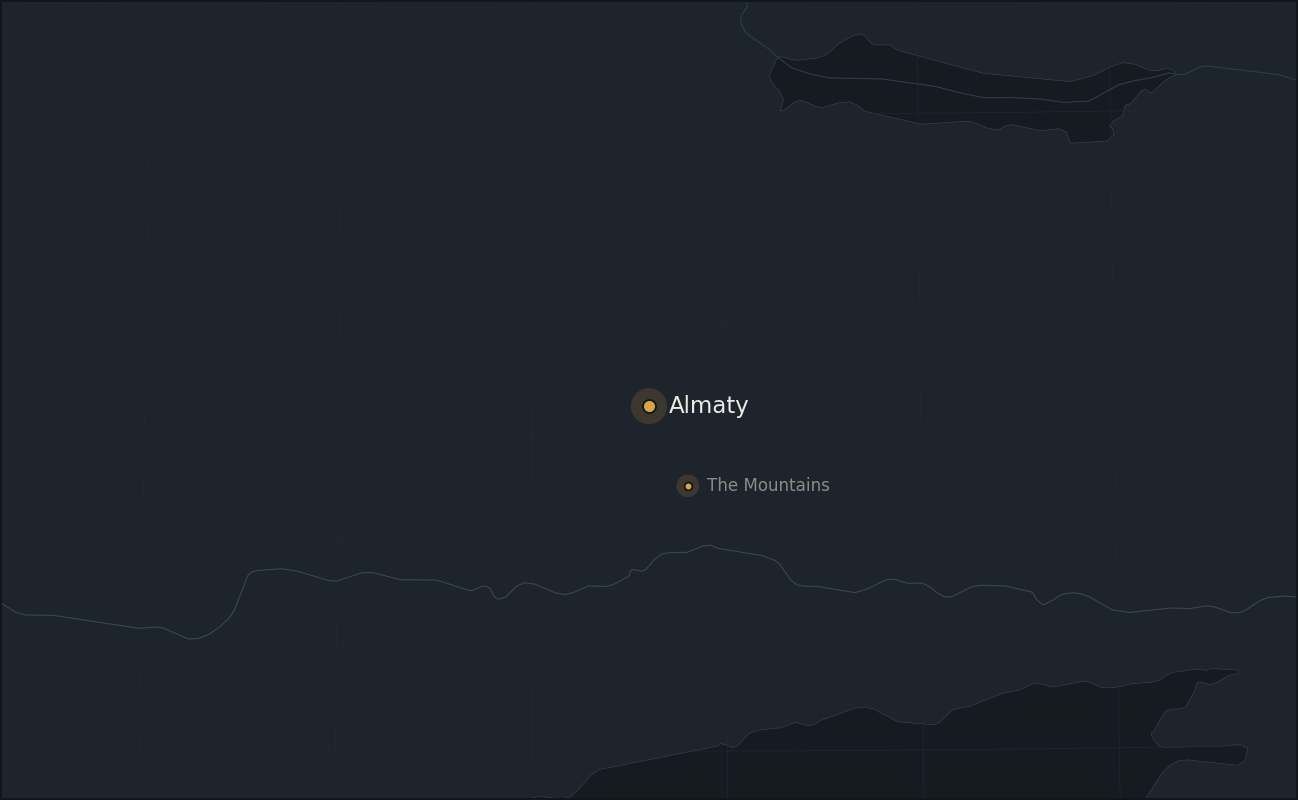
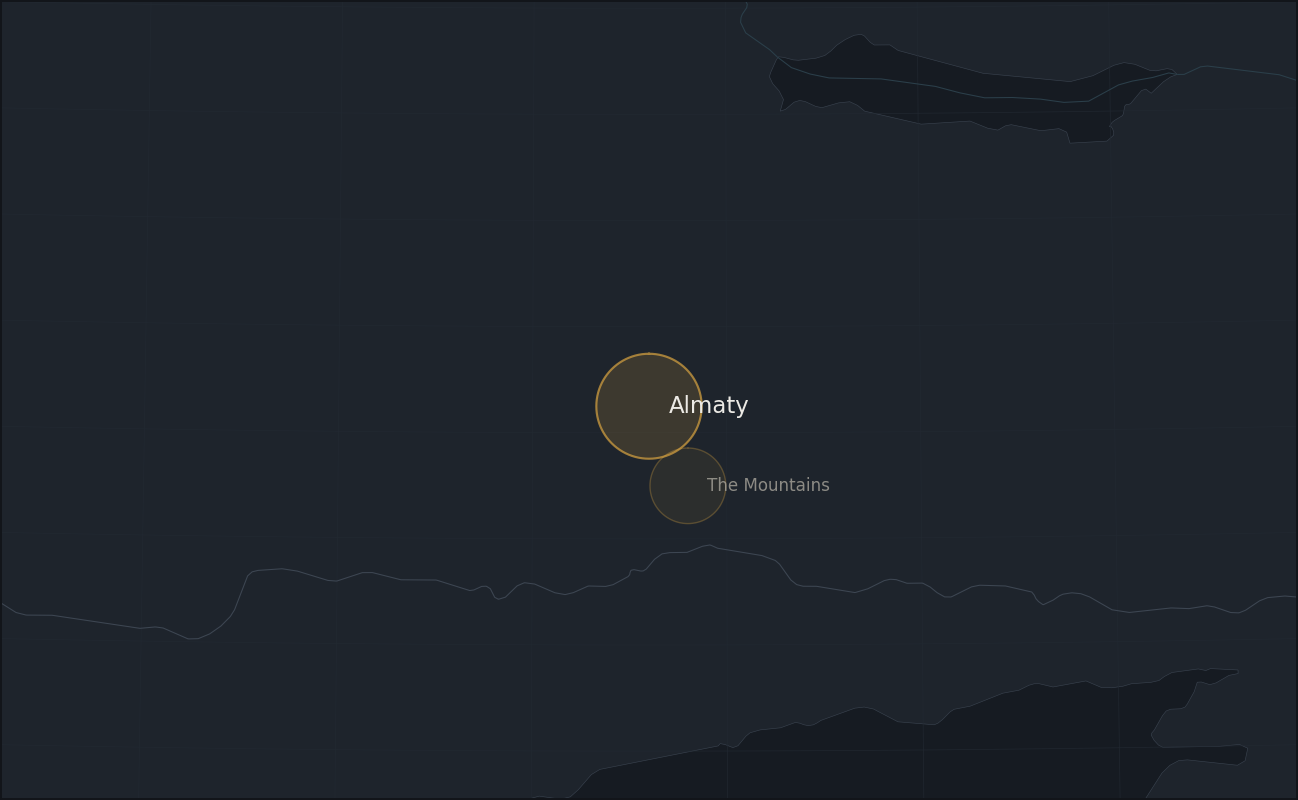
Circular regions on maps; remove em dashes from chapter prose
Maps now draw approximate circular regions instead of points. A point implies a
GPS fix on a family home; a soft circle says around here, which matches how the
coordinates were derived (median over a chapter's photos) and is the right
precision to publish. The circles are geodesic rather than screen-space discs,
so they carry the projection's distortion honestly.

The globe drew only the first chapter. It now shows all four, unlabeled, at a
radius where Astana/shapan and Almaty/mountains each merge into a single
region, which is the right reading for a map answering where on Earth.

Changed region(s): [[0.4314, 0.4375, 0.5547, 0.5938]]

diff --git a/tools/build_maps.py b/tools/build_maps.py
@@ -182,12 +182,51 @@ def place_labels(ax, ordered, xy):
     return out, (x1 - x0) * 0.015
 
 
-def draw_markers(ax, proj, coords, ordered, highlight, route=False):
+def geodesic_circle(lat, lon, radius_km, n=96):
+    """Points on a circle of true ground radius, in lon/lat.
+
+    Drawn on the sphere rather than as a screen-space disc, so the shape carries
+    the projection's distortion honestly: a circle looks circular in Albers near
+    the standard parallels and visibly elliptical toward the limb of the globe.
+    """
+    ang = radius_km / 6371.0
+    lat1, lon1 = math.radians(lat), math.radians(lon)
+    pts = []
+    for i in range(n + 1):
+        brg = 2 * math.pi * i / n
+        lat2 = math.asin(math.sin(lat1) * math.cos(ang)
+                         + math.cos(lat1) * math.sin(ang) * math.cos(brg))
+        lon2 = lon1 + math.atan2(
+            math.sin(brg) * math.sin(ang) * math.cos(lat1),
+            math.cos(ang) - math.sin(lat1) * math.sin(lat2),
+        )
+        pts.append((math.degrees(lon2), math.degrees(lat2)))
+    return pts
+
+
+def draw_regions(ax, proj, coords, ordered, highlight, radius_km, labels=True,
+                 route=False):
+    """Approximate circular regions rather than points.
+
+    A point implies a GPS fix on a family's home. A soft circle says "somewhere
+    around here", which is both truer to how these coordinates were derived
+    (a median over a chapter's photos) and the right amount of precision to
+    publish.
+    """
     xy = {}
     for g in ordered:
         lat, lon, _ = coords[g]
-        x, y = proj.transform_point(lon, lat, ccrs.PlateCarree())
-        xy[g] = (x, y)
+        xy[g] = proj.transform_point(lon, lat, ccrs.PlateCarree())
+
+    for g in ordered:
+        lat, lon, _ = coords[g]
+        active = highlight is None or g == highlight
+        ring = geodesic_circle(lat, lon, radius_km if active else radius_km * 0.72)
+        lons, lats = zip(*ring)
+        ax.fill(lons, lats, transform=ccrs.PlateCarree(), color=POINT,
+                alpha=0.17 if active else 0.08, zorder=5, linewidth=0)
+        ax.plot(lons, lats, transform=ccrs.PlateCarree(), color=POINT,
+                alpha=0.7 if active else 0.3, lw=1.4 if active else 0.9, zorder=6)
 
     if route and len(ordered) > 1:
         lons = [coords[g][1] for g in ordered]
@@ -195,22 +234,20 @@ def draw_markers(ax, proj, coords, ordered, highlight, route=False):
         # Geodetic transform draws great-circle arcs rather than straight lines
         # in projected space -- the honest path between two points on a sphere.
         ax.plot(lons, lats, transform=ccrs.Geodetic(), color=POINT,
-                lw=1.3, alpha=0.5, ls=(0, (5, 4)), zorder=5)
+                lw=1.3, alpha=0.45, ls=(0, (5, 4)), zorder=4)
+
+    if not labels:
+        return
 
     label_y, dx = place_labels(ax, ordered, xy)
 
     for g in ordered:
         x, y = xy[g]
         active = highlight is None or g == highlight
-        ax.scatter([x], [y], s=560 if active else 220, color=POINT,
-                   alpha=0.16, zorder=6, edgecolors="none")
-        ax.scatter([x], [y], s=72 if active else 26, color=POINT,
-                   zorder=7, edgecolors=BG, linewidths=1.2)
-
         ly = label_y[g]
         if abs(ly - y) > (ax.get_ylim()[1] - ax.get_ylim()[0]) * 0.004:
             ax.plot([x, x + dx * 0.7], [y, ly], color=POINT,
-                    lw=0.8, alpha=0.45, zorder=6)
+                    lw=0.8, alpha=0.45, zorder=7)
         ax.text(x + dx, ly, TITLES.get(g, g.title()),
                 color=INK if active else INK_DIM,
                 fontsize=15 if active else 11,
@@ -238,7 +275,10 @@ def map_globe(coords, ordered) -> tuple:
     add_land(ax, "110m", far=True)
     ax.gridlines(color=GRID, linewidth=0.5, alpha=0.7)
     add_kazakhstan_outline(ax, "110m")
-    draw_markers(ax, proj, coords, [ordered[0]], None)
+    # All four regions, unlabeled. At this scale Astana/shapan and
+    # Almaty/mountains each merge into one blob, which is the right reading:
+    # the globe answers "where on Earth", not "which chapter".
+    draw_regions(ax, proj, coords, ordered, None, radius_km=170, labels=False)
     return fig, ax
 
 
@@ -254,7 +294,7 @@ def map_overview(coords, ordered) -> tuple:
     ax.gridlines(color=GRID, linewidth=0.5, alpha=0.8,
                  xlocs=range(40, 96, 5), ylocs=range(36, 62, 5))
     add_kazakhstan_outline(ax, "50m")
-    draw_markers(ax, proj, coords, ordered, None, route=True)
+    draw_regions(ax, proj, coords, ordered, None, radius_km=48, route=True)
     return fig, ax
 
 
@@ -274,7 +314,7 @@ def map_chapter(coords, ordered, chapter) -> tuple:
     ax.gridlines(color=GRID, linewidth=0.5, alpha=0.8)
     nearby = [g for g in ordered
               if abs(coords[g][0] - lat) < span and abs(coords[g][1] - lon) < lon_span]
-    draw_markers(ax, proj, coords, nearby or [chapter], chapter)
+    draw_regions(ax, proj, coords, nearby or [chapter], chapter, radius_km=11)
     return fig, ax
 
 

diff --git a/src/content/chapters/01-astana.md b/src/content/chapters/01-astana.md
@@ -8,7 +8,7 @@ lead: A capital still being built.
 
 Astana became the capital of Kazakhstan only recently, and the city still reads
 as two places. The Ishim river divides them. On one bank is the older side, the
-town that was here before. On the other, the new capital — laid out
-deliberately, built fast, and still going up.
+town that was here before. On the other, the new capital, laid out deliberately,
+built fast, and still going up.
 
 The first days were spent walking both sides.

diff --git a/src/content/chapters/02-shapan.md b/src/content/chapters/02-shapan.md
@@ -6,7 +6,7 @@ place: The steppe, southwest of Astana
 lead: Dinner in a yurt, out on the steppe.
 ---
 
-Aizhan's family welcomed me with dinner in a yurt — the traditional Kazakh
-structure — out on the steppe beyond Astana.
+Aizhan's family welcomed me with dinner in a yurt, the traditional Kazakh
+structure, out on the steppe beyond Astana.
 
 This is where I was given the shapan.

diff --git a/src/content/chapters/03-almaty.md b/src/content/chapters/03-almaty.md
@@ -8,4 +8,4 @@ lead: South, to the former capital.
 
 Flew south to Almaty, which held the capital before Astana took it.
 
-More of the family here — cousins and uncles.
+More of the family here: cousins and uncles.
